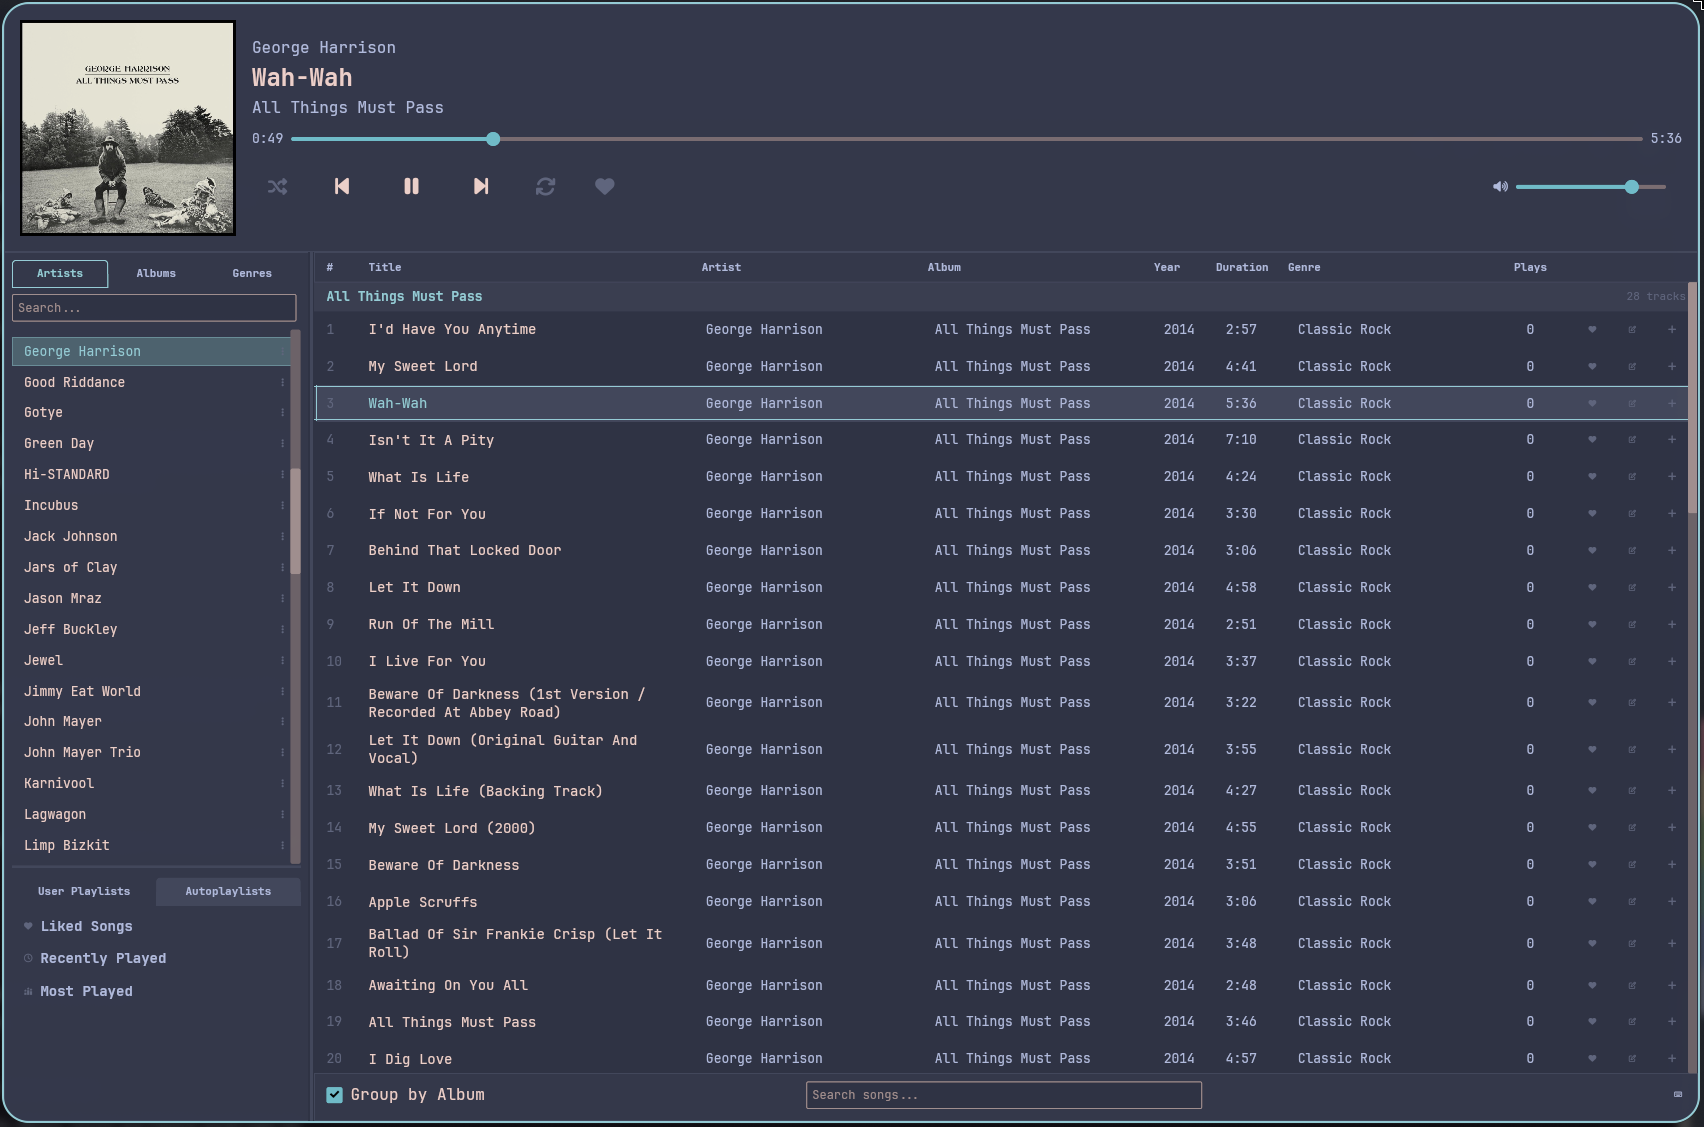
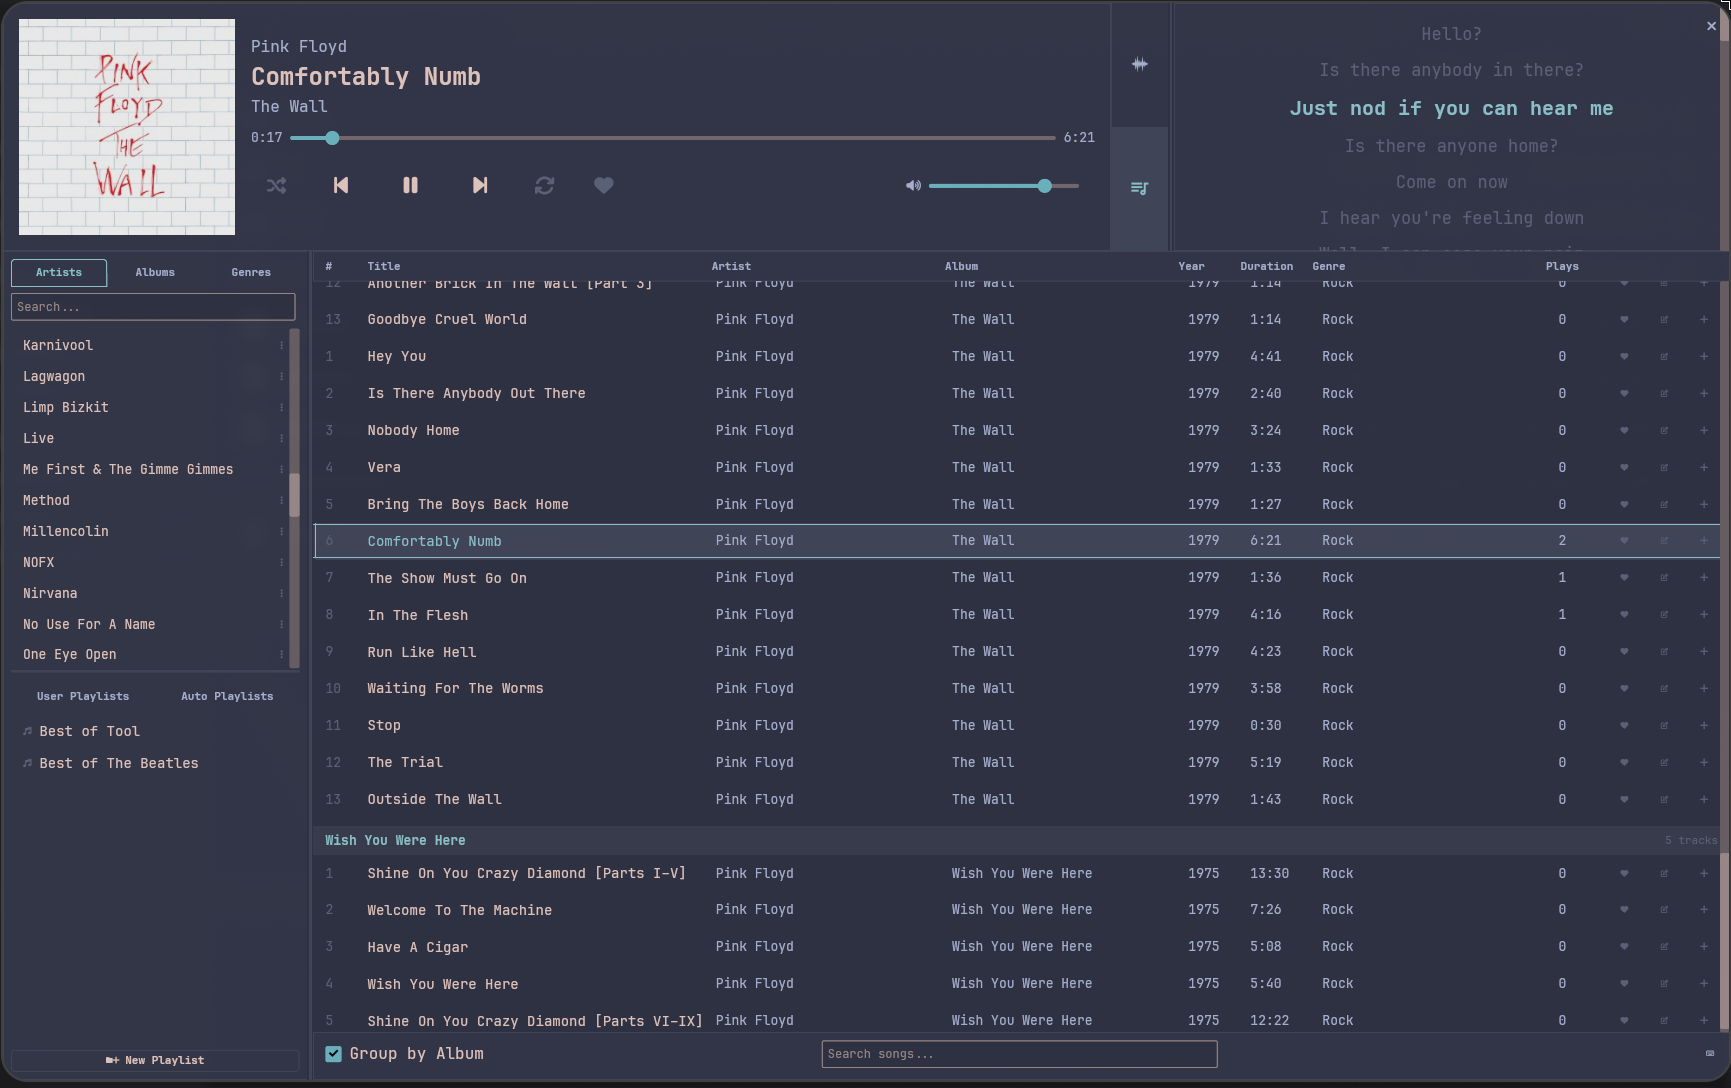
Auto-commit: local modifications sync

diff --git a/src/audio/spectrum.rs b/src/audio/spectrum.rs
@@ -3,13 +3,25 @@ use std::sync::{Arc, Mutex};
 
 use rustfft::{num_complex::Complex, FftPlanner};
 
-pub const NUM_BANDS: usize = 64;
+// Display 48 bands instead of 64 — gives each band more FFT bins,
+// eliminating the blocky identical-bar problem in the low frequencies.
+pub const NUM_BANDS: usize = 48;
 const FFT_SIZE: usize = 2048;
+
+// Frequency range to display. Starting at 80Hz cuts the sub-bass mud
+// where log-scale bands are too narrow to be meaningful visually.
+// 20kHz is the top of human hearing.
+const FREQ_MIN: f32 = 80.0;
+const FREQ_MAX: f32 = 20000.0;
+const SAMPLE_RATE: f32 = 44100.0;
 
 pub struct SpectrumAnalyzer {
     planner: FftPlanner<f32>,
     sample_buffer: Arc<Mutex<VecDeque<f32>>>,
+    // Per-band peak for normalisation
     peak_hold: [f32; NUM_BANDS],
+    // Per-band smoothed output — CAVA-style attack/decay
+    smoothed: [f32; NUM_BANDS],
 }
 
 impl SpectrumAnalyzer {
@@ -18,51 +30,64 @@ impl SpectrumAnalyzer {
             planner: FftPlanner::new(),
             sample_buffer,
             peak_hold: [1e-6; NUM_BANDS],
+            smoothed: [0.0; NUM_BANDS],
         }
     }
 
-    /// Retorna amplitudes normalizadas [0.0, 1.0] para cada uma das NUM_BANDS bandas.
     pub fn compute(&mut self) -> [f32; NUM_BANDS] {
         let samples: Vec<f32> = {
             let buf = self.sample_buffer.lock().unwrap();
             if buf.len() < FFT_SIZE {
-                return [0.0; NUM_BANDS];
+                return self.smoothed;
             }
             buf.iter().rev().take(FFT_SIZE).cloned().collect()
         };
 
+        // Normalise raw samples so volume knob doesn't affect visualiser height.
+        // Find the peak sample magnitude and scale everything to [-1, 1].
+        let peak = samples.iter().cloned().map(f32::abs).fold(1e-6f32, f32::max);
+        let samples: Vec<f32> = samples.iter().map(|s| s / peak).collect();
+
         let fft = self.planner.plan_fft_forward(FFT_SIZE);
 
-        // Janela de Hann para reduzir leakage espectral
+        // Hann window to reduce spectral leakage
         let mut input: Vec<Complex<f32>> = samples
             .iter()
             .enumerate()
             .map(|(i, &s)| {
-                let window = 0.5 * (1.0 - (2.0 * std::f32::consts::PI * i as f32 / (FFT_SIZE - 1) as f32).cos());
+                let window = 0.5
+                    * (1.0
+                        - (2.0 * std::f32::consts::PI * i as f32
+                            / (FFT_SIZE - 1) as f32)
+                            .cos());
                 Complex { re: s * window, im: 0.0 }
             })
             .collect();
 
         fft.process(&mut input);
 
-        // Apenas metade positiva do espectro
         let half = FFT_SIZE / 2;
         let magnitudes: Vec<f32> = input[..half]
             .iter()
             .map(|c| (c.re * c.re + c.im * c.im).sqrt() / FFT_SIZE as f32)
             .collect();
 
-        // Agregar em NUM_BANDS bandas em escala logarítmica
+        // Map frequency Hz to FFT bin index
+        let hz_to_bin = |hz: f32| -> usize {
+            ((hz / SAMPLE_RATE) * FFT_SIZE as f32) as usize
+        };
+
+        // Aggregate into NUM_BANDS on a log scale between FREQ_MIN and FREQ_MAX
         let mut bands = [0.0f32; NUM_BANDS];
-        let log_min = (1f32).log2();
-        let log_max = (half as f32).log2();
+        let log_min = FREQ_MIN.log2();
+        let log_max = FREQ_MAX.log2();
 
         for (i, band) in bands.iter_mut().enumerate() {
-            let lo = log_min + (log_max - log_min) * i as f32 / NUM_BANDS as f32;
-            let hi = log_min + (log_max - log_min) * (i + 1) as f32 / NUM_BANDS as f32;
+            let lo_hz = 2f32.powf(log_min + (log_max - log_min) * i as f32 / NUM_BANDS as f32);
+            let hi_hz = 2f32.powf(log_min + (log_max - log_min) * (i + 1) as f32 / NUM_BANDS as f32);
 
-            let idx_lo = (2f32.powf(lo) as usize).clamp(0, half - 1);
-            let idx_hi = (2f32.powf(hi) as usize).clamp(idx_lo + 1, half);
+            let idx_lo = hz_to_bin(lo_hz).clamp(0, half - 1);
+            let idx_hi = hz_to_bin(hi_hz).clamp(idx_lo + 1, half);
 
             let sum: f32 = magnitudes[idx_lo..idx_hi].iter().sum();
             let count = (idx_hi - idx_lo).max(1) as f32;
@@ -70,19 +95,37 @@ impl SpectrumAnalyzer {
         }
 
         // Per-band peak normalisation with slow decay.
-        // Each band normalises against its own recent peak so bass cannot
-        // permanently dominate mids and highs.
+        // Each band normalises against its own recent peak so no frequency
+        // range permanently dominates the display.
         const PEAK_DECAY: f32 = 0.995;
         const PEAK_FLOOR: f32 = 1e-6;
+        // Cap at 0.85 so bars never fully fill — gives visual headroom.
+        const AMPLITUDE_CAP: f32 = 0.85;
 
         for (i, band) in bands.iter_mut().enumerate() {
             self.peak_hold[i] = (self.peak_hold[i] * PEAK_DECAY).max(PEAK_FLOOR);
             if *band > self.peak_hold[i] {
                 self.peak_hold[i] = *band;
             }
-            *band = (*band / self.peak_hold[i]).clamp(0.0, 1.0);
+            *band = (*band / self.peak_hold[i]).clamp(0.0, AMPLITUDE_CAP);
         }
 
-        bands
+        // CAVA-style smoothing: fast attack, slow decay.
+        // When signal rises, snap up quickly (attack = 0.6).
+        // When signal falls, glide down slowly (decay = 0.12).
+        // This gives the fluid organic movement of a good visualiser.
+        const ATTACK: f32 = 0.6;
+        const DECAY: f32  = 0.12;
+
+        for (i, band) in bands.iter().enumerate() {
+            let prev = self.smoothed[i];
+            self.smoothed[i] = if *band > prev {
+                prev + (*band - prev) * ATTACK
+            } else {
+                prev + (*band - prev) * DECAY
+            };
+        }
+
+        self.smoothed
     }
 }